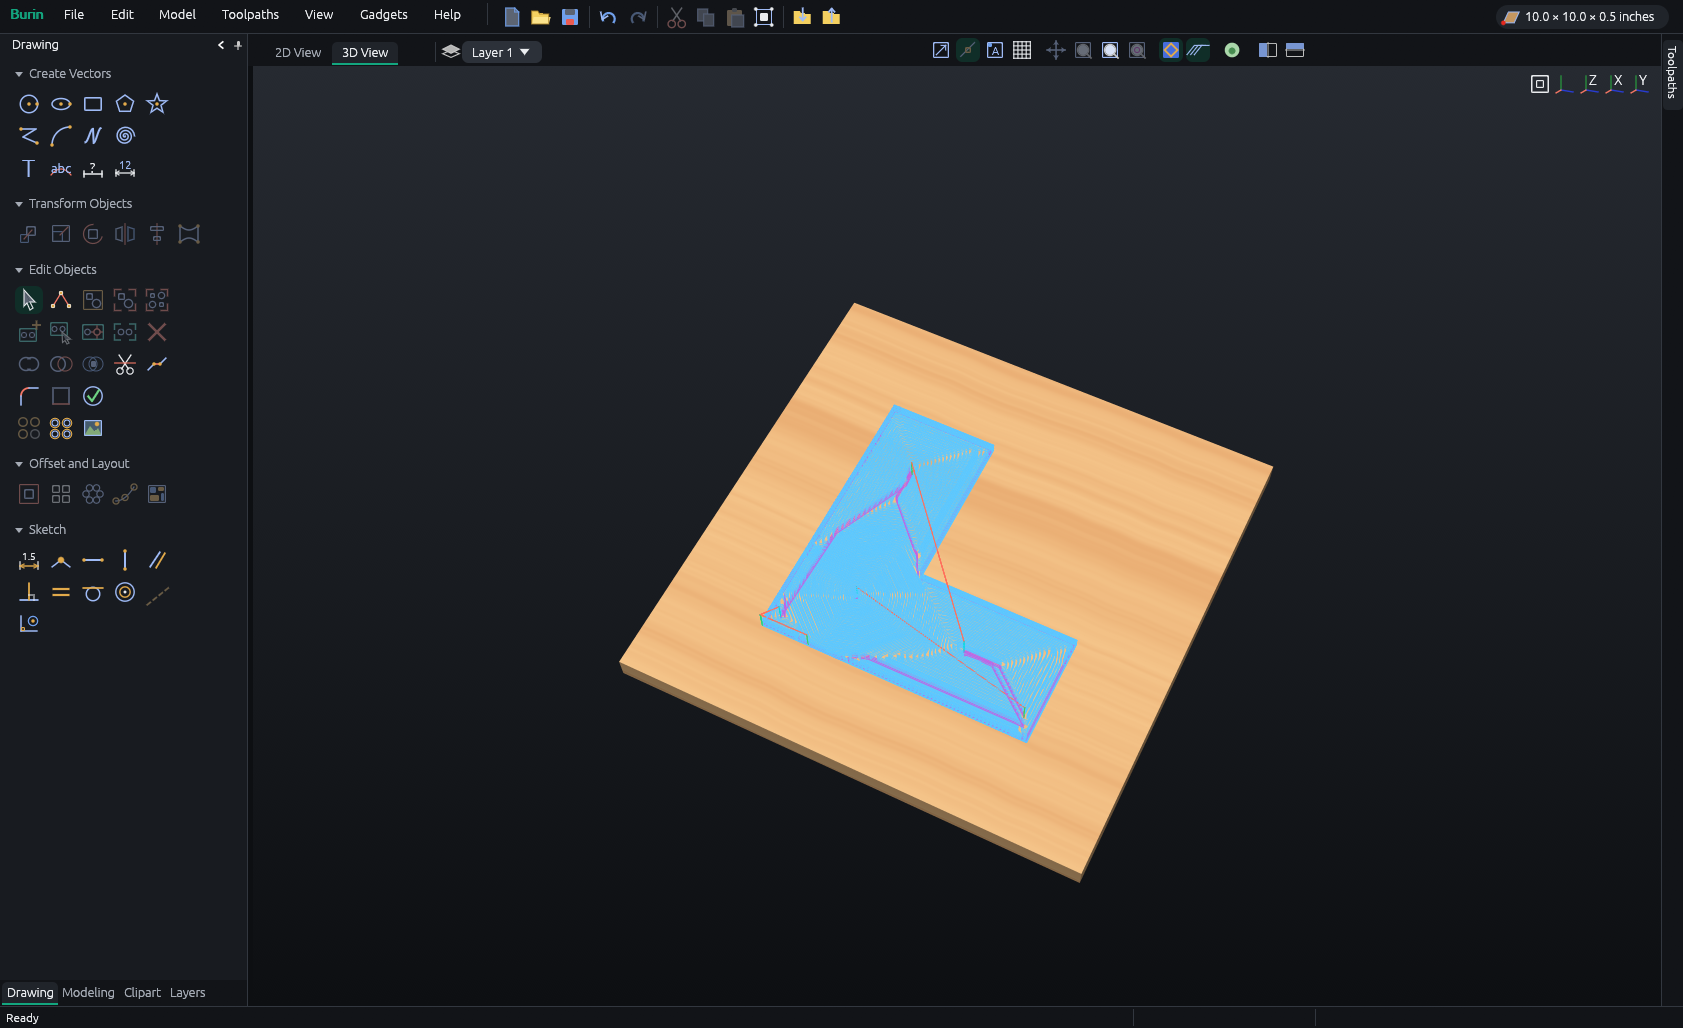
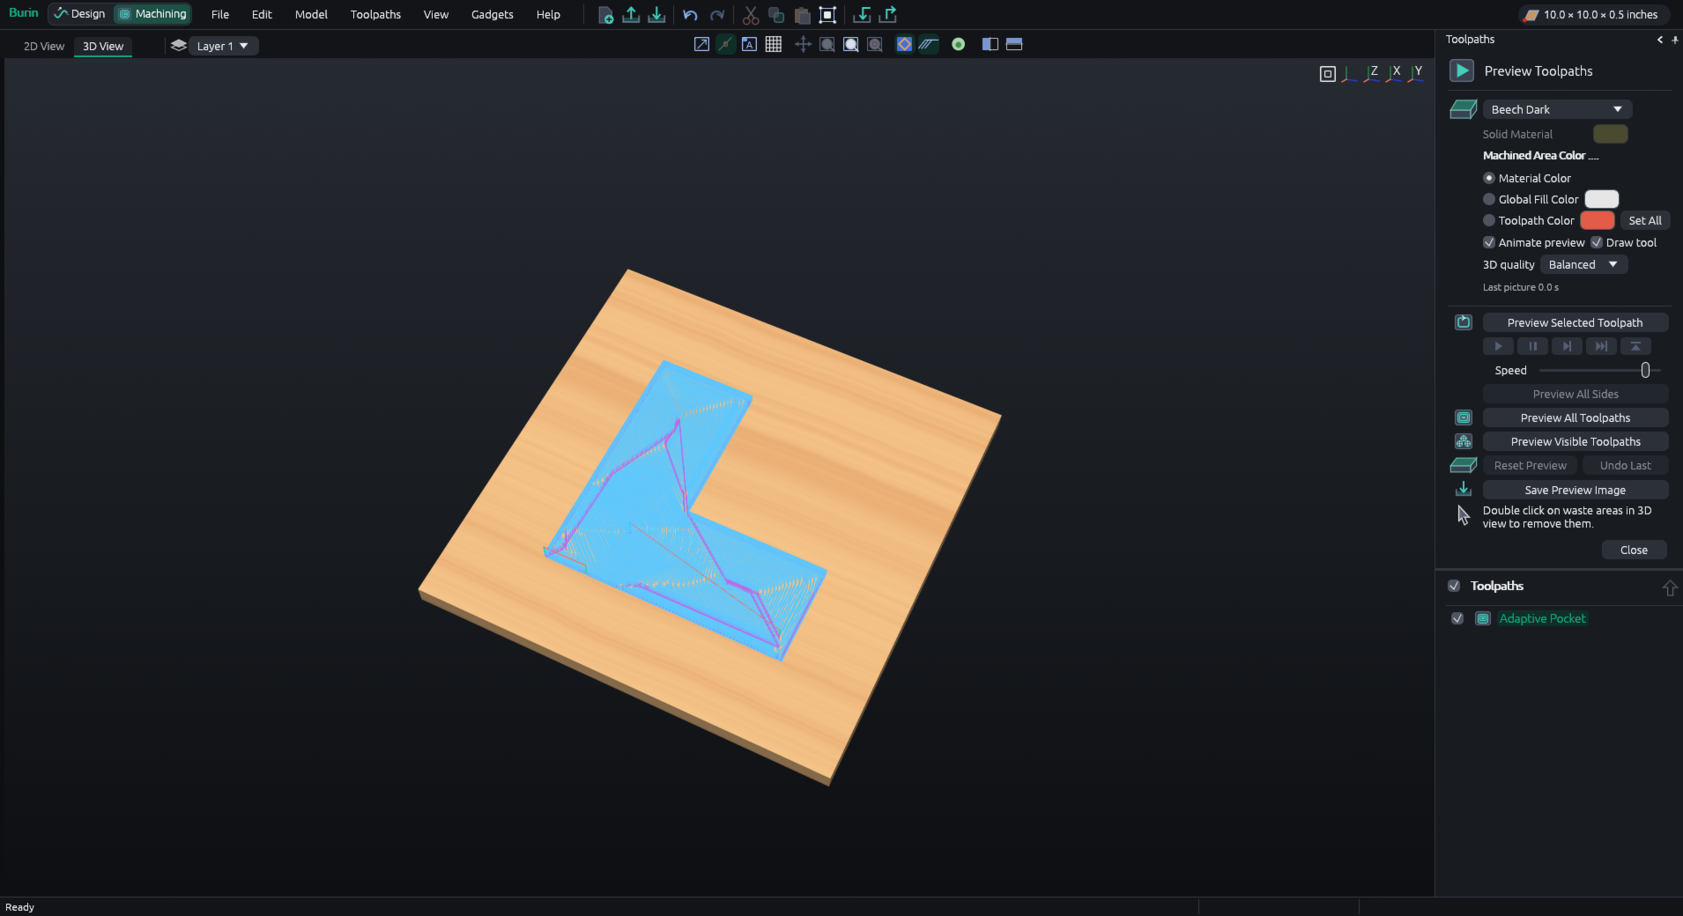
Burin 0.9.4: README and site pictures, workspaces in the README

diff --git a/README.fr.md b/README.fr.md
@@ -29,6 +29,7 @@ Linux · Windows · Navigateur · Français · English
 
 | | |
 |---|---|
+| **Espaces de travail** | Deux, au choix en haut à gauche : **Dessin** pour dessiner et modeler, **Usinage** pour les parcours, l'aperçu et les fichiers machine. Chacun ne montre que ses panneaux, et Burin passe au bon quand vous ouvrez quelque chose de l'autre |
 | **Dessiner** | Lignes, courbes, arcs, cercles, ellipses, rectangles, polygones, étoiles, spirales, texte (polices de l'ordinateur, gras, italique, alignement, et polices à trait unique pour la gravure), cotes, contraintes d'esquisse |
 | **Modifier** | Déplacer, tourner et redimensionner à la souris (avec une valeur exacte tapée au clavier), décaler, souder, couper, aligner, copier en série, lisser les tracés |
 | **Organiser** | Calques, groupes, **pièces** (on sélectionne un seul trou sans rien dégrouper, mais la pièce se déplace d'un bloc), **plusieurs plaques** par travail, imbrication qui ajoute des plaques et peut tourner les pièces |

diff --git a/README.md b/README.md
@@ -28,6 +28,7 @@ Linux · Windows · Browser · English · Français
 
 | | |
 |---|---|
+| **Workspaces** | Two of them, switched from the top left: **Design** to draw and model, **Machining** for toolpaths, preview and machine files. Each shows only its own panels, and Burin goes to the right one when you open something of the other |
 | **Draw** | Lines, curves, arcs, circles, ellipses, rectangles, polygons, stars, spirals, text (the computer's fonts, bold, italic, alignment, and single-line fonts for engraving), dimensions, sketch constraints |
 | **Edit** | Move, rotate and resize with the mouse (or type an exact value), offset, weld, trim, align, array copies, smooth outlines |
 | **Organise** | Layers, groups, **pieces** (pick one hole without ungrouping, yet the piece moves as one), **several sheets** per job, nesting that adds sheets, turns parts, puts small parts in the holes of big ones, or fills an outline you choose |
